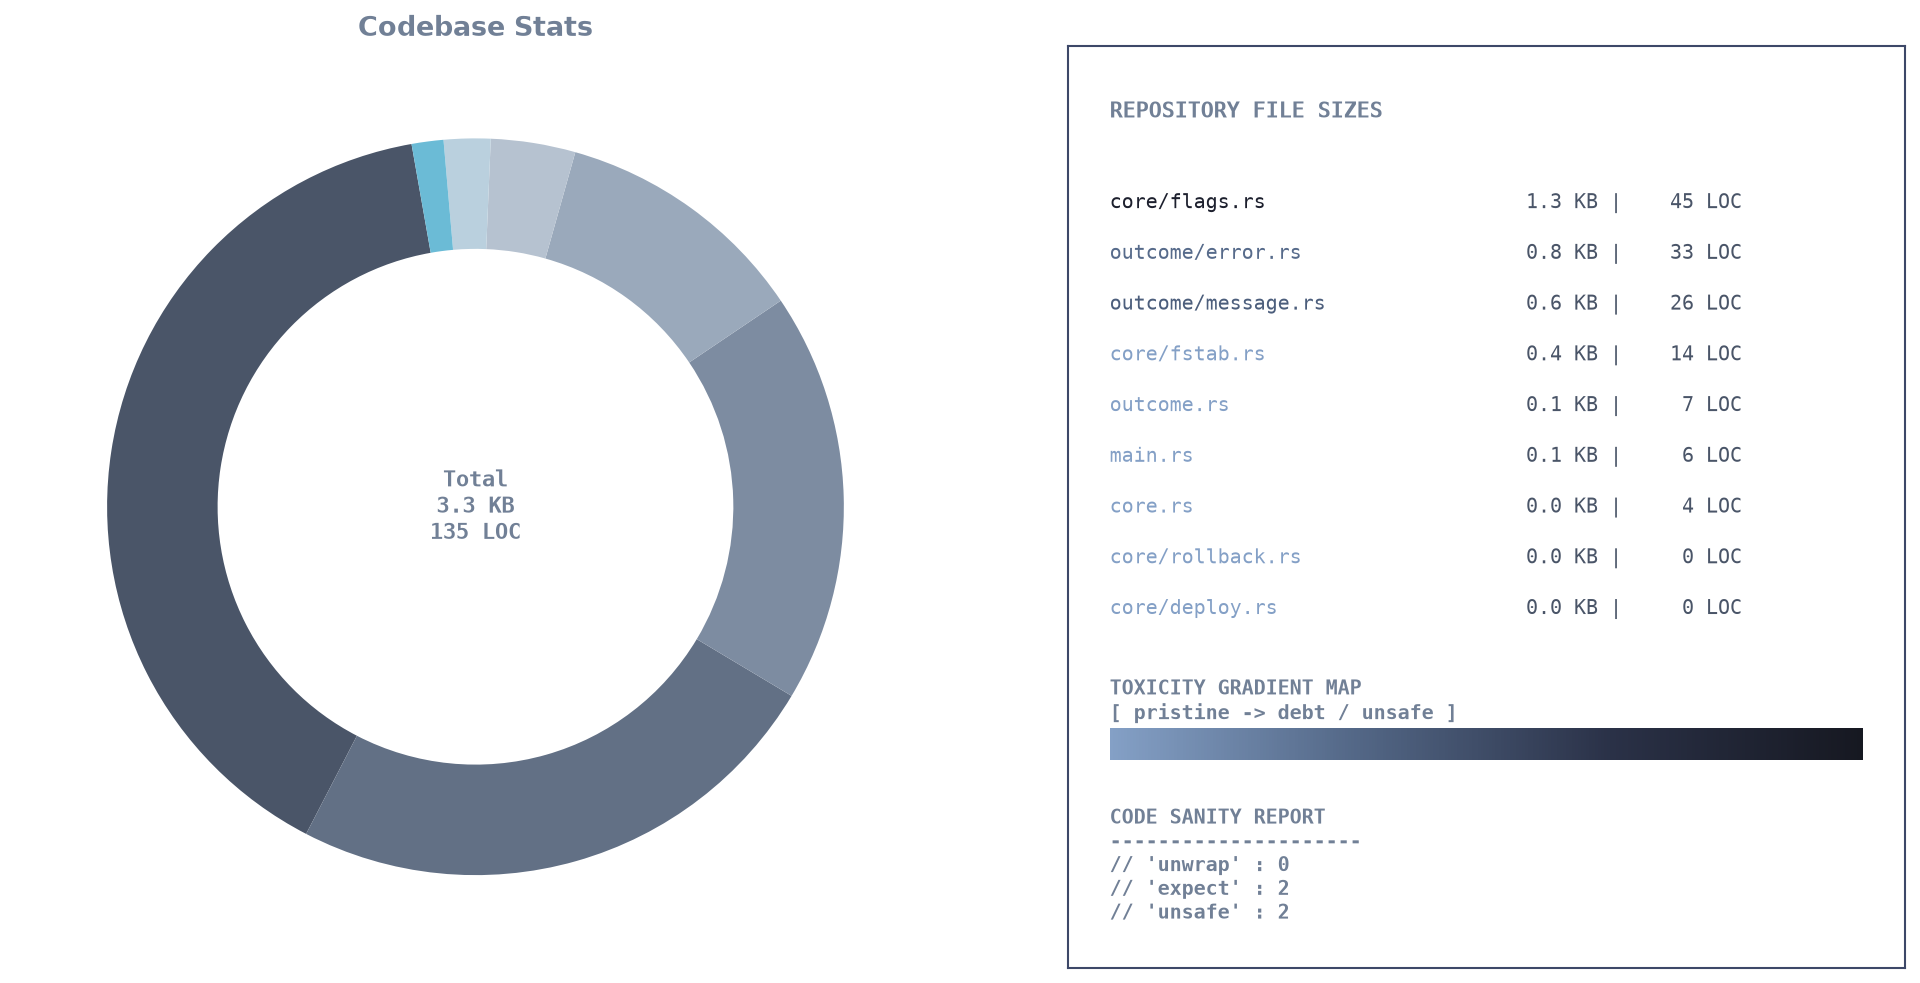
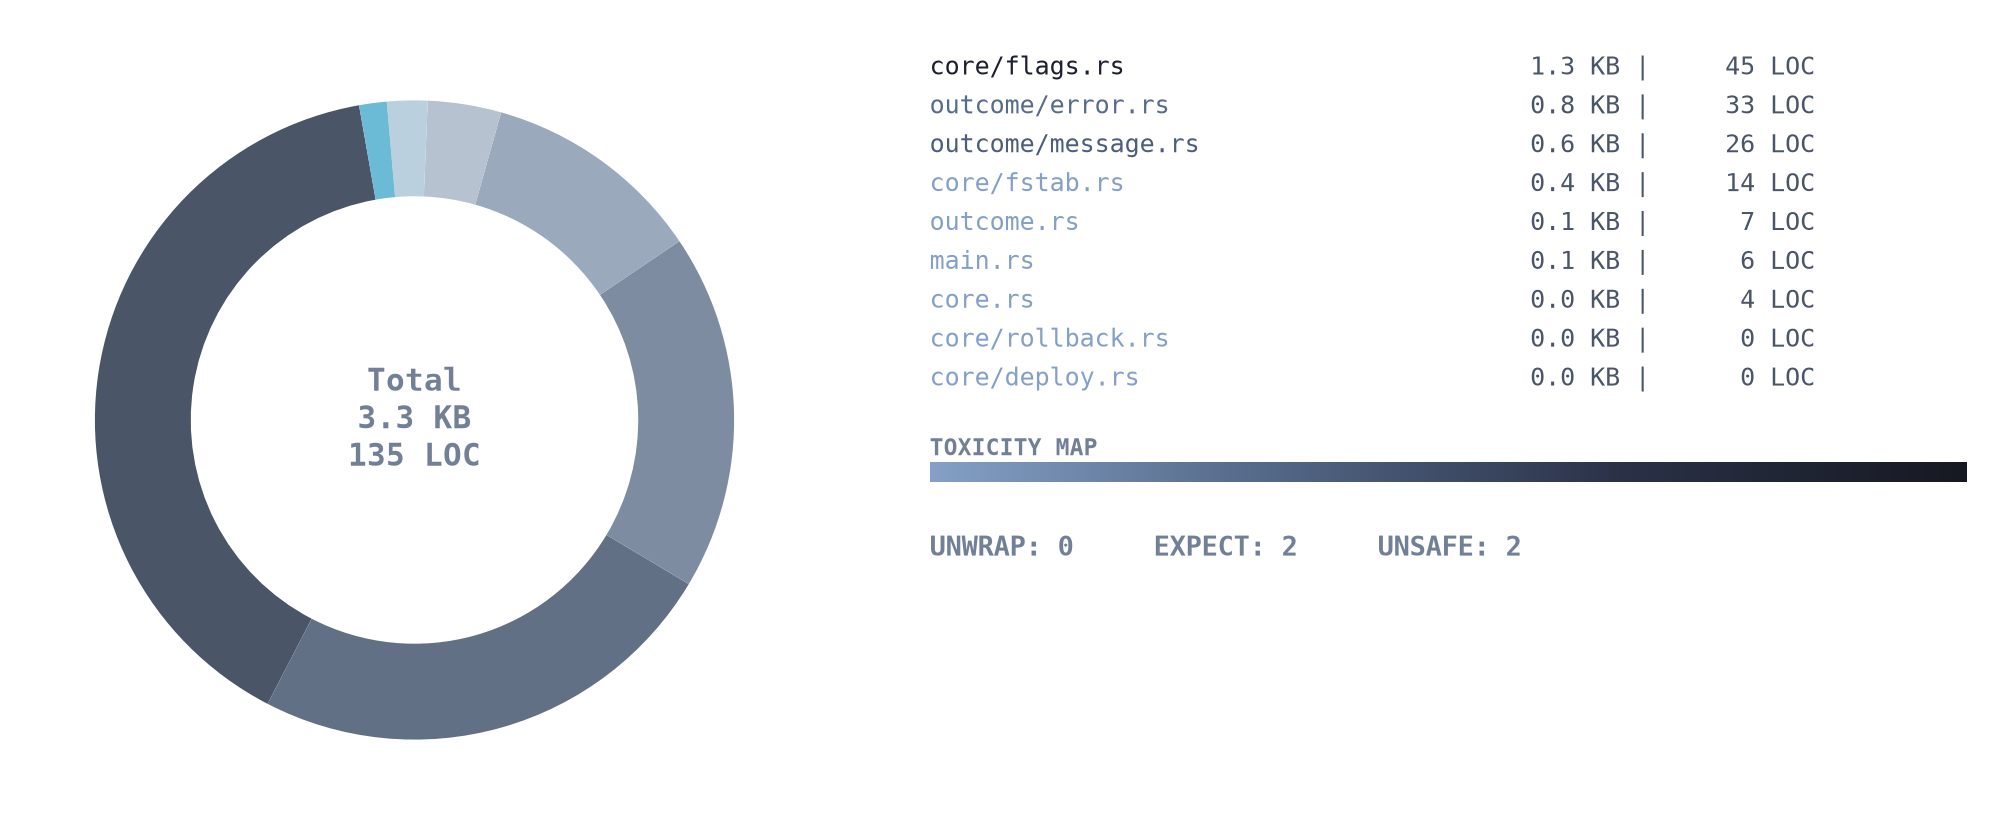
deploy-2026-07-27 16:58:41.964386

diff --git a/.ci/stats.py b/.ci/stats.py
@@ -1,14 +1,12 @@
 # /// script
 # requires-python = ">=3.11"
-# dependencies = [
-#     "matplotlib",
-#     "click",
-#     "structlog",
-# ]
+# dependencies = ["matplotlib", "click", "structlog"]
 # ///
 
 import os
 from pathlib import Path
+from dataclasses import dataclass
+from typing import Dict, List, Set, Tuple
 import matplotlib.pyplot as plt
 import matplotlib.colors as mcolors
 import matplotlib.gridspec as gridspec
@@ -17,192 +15,137 @@ import structlog
 
 log = structlog.get_logger()
 
-def load_ignore_patterns(root_dir: Path) -> list[str]:
-    ignore_file = root_dir / ".statsignore"
-    if not ignore_file.exists():
-        return []
-    with open(ignore_file, "r", encoding="utf-8") as f:
-        return [line.strip() for line in f if line.strip() and not line.startswith("#")]
+@dataclass
+class Metrics:
+    size: int
+    loc: int
+    markers: Dict[str, int]
+    toxicity: float
 
-def should_ignore(path: Path, root_dir: Path, patterns: list[str]) -> bool:
-    rel_path = str(path.relative_to(root_dir))
-    for pattern in patterns:
-        if pattern.endswith("/"):
-            if rel_path.startswith(pattern) or f"/{pattern}" in rel_path:
-                return True
-        elif pattern in rel_path or path.name == pattern:
-            return True
-    return False
+class Analyzer:
+    def __init__(self, root: Path):
+        self.root = root.resolve()
+        self.ignore = self._load_ignore()
 
-def analyze_file_content(path: Path) -> tuple[int, dict[str, int]]:
-    lines_count = 0
-    markers = {"unwrap": 0, "expect": 0, "unsafe": 0}
-    try:
-        with open(path, "r", encoding="utf-8", errors="ignore") as f:
-            for line in f:
-                lines_count += 1
-                line_strip = line.strip().lower().replace(" ", "")
-                if "//unwrap" in line_strip:
-                    markers["unwrap"] += 1
-                elif "//expect" in line_strip:
-                    markers["expect"] += 1
-                elif "//unsafe" in line_strip:
-                    markers["unsafe"] += 1
-    except Exception:
-        pass
-    return lines_count, markers
+    def _load_ignore(self) -> List[str]:
+        f = self.root / ".statsignore"
+        return [l.strip() for l in f.read_text().splitlines() if l.strip() and not l.startswith("#")] if f.exists() else []
 
-def calculate_toxicity(loc: int, markers: dict) -> float:
-    if loc == 0:
-        return 0.0
-    score = (markers["unwrap"] * 1.5) + (markers["expect"] * 1.0) + (markers["unsafe"] * 2.0)
-    return (score / loc) * 100
+    def _skip(self, p: Path) -> bool:
+        rel = str(p.relative_to(self.root))
+        return any(
+            (pat.endswith("/") and (rel.startswith(pat) or f"/{pat}" in rel)) or pat in rel or p.name == pat
+            for pat in self.ignore
+        )
 
-def scan_files(root_dir: Path, extensions: set[str], output_image: str) -> dict:
-    file_data = {}
-    root_abs = root_dir.resolve()
-    if not root_abs.exists():
-        log.error("directory_not_found", path=str(root_abs))
-        raise click.Abort()
+    @staticmethod
+    def _parse(path: Path) -> Tuple[int, Dict[str, int]]:
+        m = {"unwrap": 0, "expect": 0, "unsafe": 0}
+        loc = 0
+        try:
+            with open(path, errors="ignore") as f:
+                for line in f:
+                    loc += 1
+                    s = line.strip().lower().replace(" ", "")
+                    for marker in m:
+                        if f"//{marker}" in s:
+                            m[marker] += 1
+        except Exception:
+            pass
+        return loc, m
 
-    patterns = load_ignore_patterns(root_abs)
-    for path in root_abs.rglob("*"):
-        if path.is_file() and path.suffix.lower() in extensions:
-            if path.name == output_image or should_ignore(path, root_abs, patterns):
-                continue
-            relative_path = path.relative_to(root_abs)
-            loc, markers = analyze_file_content(path)
-            toxicity = calculate_toxicity(loc, markers)
-            file_data[str(relative_path)] = {
-                "size": path.stat().st_size,
-                "loc": loc,
-                "markers": markers,
-                "toxicity": toxicity
-            }
-    return file_data
+    def scan(self, exts: Set[str], out: str) -> Dict[str, Metrics]:
+        data = {}
+        for p in self.root.rglob("*"):
+            if p.is_file() and p.suffix.lower() in exts and p.name != out and not self._skip(p):
+                loc, m = self._parse(p)
+                tox = ((m["unwrap"] * 1.5 + m["expect"] * 1.0 + m["unsafe"] * 2.0) / loc * 100) if loc else 0
+                data[str(p.relative_to(self.root))] = Metrics(p.stat().st_size, loc, m, tox)
+        return data
 
-def save_github_chart(file_data: dict, output_path: str, max_pieces: int = 10):
-    if not file_data:
-        log.warning("no_files_found")
-        return
+class Chart:
+    def __init__(self):
+        self.cmap = mcolors.LinearSegmentedColormap.from_list("c", ['#84a0c6', '#526685', '#2a3147', '#161821'])
+        self.pie = mcolors.LinearSegmentedColormap.from_list("p", ['#4a5568', '#718096', '#a0aec0', '#cbd5e0', '#4eb3d3', '#3182ce'])
+        self.col = '#718096'
 
-    sorted_data = sorted(file_data.items(), key=lambda x: x[1]["size"], reverse=True)
-    final_labels, final_sizes, final_locs, final_toxicities = [], [], [], []
-    total_unwrap = total_expect = total_unsafe = total_loc = 0
-    others_size = others_loc = others_count = others_toxicity_sum = 0
+    def save(self, data: Dict[str, Metrics], path: str, maxn: int = 12):
+        if not data:
+            return
 
-    for i, (lbl, metrics) in enumerate(sorted_data):
-        total_unwrap += metrics["markers"]["unwrap"]
-        total_expect += metrics["markers"]["expect"]
-        total_unsafe += metrics["markers"]["unsafe"]
-        total_loc += metrics["loc"]
-        
-        if i < max_pieces:
-            final_labels.append(lbl)
-            final_sizes.append(metrics["size"])
-            final_locs.append(metrics["loc"])
-            final_toxicities.append(metrics["toxicity"])
-        else:
-            others_size += metrics["size"]
-            others_loc += metrics["loc"]
-            others_toxicity_sum += metrics["toxicity"]
-            others_count += 1
+        items = sorted(data.items(), key=lambda x: x[1].size, reverse=True)
+        labels, sizes, locs, toxs = [], [], [], []
+        totals = {"size": 0, "loc": 0, "unwrap": 0, "expect": 0, "unsafe": 0, "tox": 0, "cnt": 0}
 
-    if others_size > 0:
-        final_labels.append(f"others ({others_count} files)")
-        final_sizes.append(others_size)
-        final_locs.append(others_loc)
-        final_toxicities.append(others_toxicity_sum / others_count)
+        for i, (lbl, m) in enumerate(items):
+            totals["size"] += m.size
+            totals["loc"] += m.loc
+            totals["tox"] += m.toxicity
+            for k in ["unwrap", "expect", "unsafe"]:
+                totals[k] += m.markers[k]
 
-    total_kb = sum(final_sizes) / 1024
-    
-    text_color = '#718096'
-    metrics_color = '#4a5568' 
-    border_color = '#3d4868' 
+            if i < maxn:
+                labels.append(lbl)
+                sizes.append(m.size)
+                locs.append(m.loc)
+                toxs.append(m.toxicity)
+            else:
+                totals["cnt"] += 1
 
-    text_cmap = mcolors.LinearSegmentedColormap.from_list("text_toxicity", ['#84a0c6', '#526685', '#2a3147', '#161821'])
+        if totals["cnt"]:
+            labels.append(f"others ({totals['cnt']} files)")
+            sizes.append(sum(m.size for _, m in items[maxn:]))
+            locs.append(sum(m.loc for _, m in items[maxn:]))
+            toxs.append(sum(m.toxicity for _, m in items[maxn:]) / totals["cnt"])
 
-    fig = plt.figure(figsize=(14, 7.5), facecolor='none')
-    gs = gridspec.GridSpec(1, 2, width_ratios=[1.1, 1.0], wspace=0.15)
+        fig = plt.figure(figsize=(14, 6), facecolor='none')
+        gs = gridspec.GridSpec(1, 2, width_ratios=[0.85, 1.15], wspace=0.1)
 
-    ax_pie = fig.add_subplot(gs[0, 0], aspect="equal")
-    ax_pie.set_facecolor('none')
-    
-    pie_cmap = mcolors.LinearSegmentedColormap.from_list("adaptive_slate", ['#4a5568', '#718096', '#a0aec0', '#cbd5e0', '#4eb3d3', '#3182ce'])
-    pie_colors = [pie_cmap(i / (len(final_sizes) - 1 if len(final_sizes) > 1 else 1)) for i in range(len(final_sizes))]
+        # Левая часть: Пончик-чарт
+        ax = fig.add_subplot(gs[0], aspect="equal", facecolor='none')
+        colors = [self.pie(i / (len(sizes) - 1 or 1)) for i in range(len(sizes))]
+        ax.pie(sizes, wedgeprops=dict(width=0.3, edgecolor='none'), startangle=100, colors=colors)
+        ax.text(0, 0, f"Total\n{totals['size']/1024:.1f} KB\n{totals['loc']} LOC",
+                ha='center', va='center', fontsize=15, color=self.col, fontfamily='monospace', weight='bold')
 
-    wedges, _ = ax_pie.pie(final_sizes, wedgeprops=dict(width=0.3, edgecolor='none'), startangle=100, colors=pie_colors)
-    ax_pie.text(0, 0, f"Total\n{total_kb:.1f} KB\n{total_loc} LOC", ha='center', va='center', fontsize=10.5, color=text_color, fontfamily='monospace', weight='bold')
+        # Правая часть: Спецификация и метрики
+        ax2 = fig.add_subplot(gs[1], facecolor='none')
+        for s in ax2.spines.values():
+            s.set_visible(False)
+        ax2.set_xticks([])
+        ax2.set_yticks([])
 
-    ax_text = fig.add_subplot(gs[0, 1])
-    ax_text.set_facecolor('none')
-    
-    for spine in ax_text.spines.values():
-        spine.set_edgecolor(border_color)
-        spine.set_linewidth(1)
-    
-    ax_text.set_xticks([])
-    ax_text.set_yticks([])
+        y = 0.95
+        for lbl, sz, lc, tox in zip(labels, sizes, locs, toxs):
+            c = self.cmap(min(tox / 10, 1))
+            ax2.text(0.02, y, f"{lbl:<30}", fontfamily='monospace', fontsize=12, color=c, va='top')
+            ax2.text(0.52, y, f"{sz/1024:>7.1f} KB | {lc:>6} LOC", fontfamily='monospace', fontsize=12, color='#4a5568', va='top')
+            y -= 0.048
 
-    pad_left = 0.05
-    pad_right = 0.95
+        y -= 0.04
+        ax2.text(0.02, y, "TOXICITY MAP", fontsize=11, fontfamily='monospace', color=self.col, weight='bold', va='top')
+        cax = ax2.inset_axes([0.02, y - 0.055, 0.96, 0.025])
+        cb = fig.colorbar(plt.cm.ScalarMappable(norm=mcolors.Normalize(0, 10), cmap=self.cmap), cax=cax, orientation='horizontal')
+        cb.outline.set_visible(False)
+        cb.set_ticks([])
 
-    ax_text.text(pad_left, 0.94, "REPOSITORY FILE SIZES", fontsize=10.5, fontfamily='monospace', fontweight='bold', color=text_color, va='top')
-    
-    y_offset = 0.84
-    for lbl, sz, lc, tox in zip(final_labels, final_sizes, final_locs, final_toxicities):
-        norm_tox = min(tox / 10.0, 1.0)
-        current_name_color = text_cmap(norm_tox)
-        
-        name_part = f"{lbl:<28}"
-        ax_text.text(pad_left, y_offset, name_part, fontfamily='monospace', fontsize=9.5, color=current_name_color, va='top')
-        
-        metrics_part = f" {sz / 1024:>6.1f} KB | {lc:>5} LOC"
-        ax_text.text(0.49, y_offset, metrics_part, fontfamily='monospace', fontsize=9.5, color=metrics_color, va='top')
-        
-        y_offset -= 0.055
+        y -= 0.12
+        ax2.text(0.02, y, f"UNWRAP: {totals['unwrap']:<4}  EXPECT: {totals['expect']:<4}  UNSAFE: {totals['unsafe']:<4}",
+                fontsize=13, fontfamily='monospace', color=self.col, weight='bold', va='top')
 
-    y_offset -= 0.03
-    ax_text.text(pad_left, y_offset, "TOXICITY GRADIENT MAP\n[ pristine -> debt / unsafe ]", fontsize=9.5, fontfamily='monospace', color=text_color, weight='bold', va='top')
-    
-    cax = ax_text.inset_axes([pad_left, y_offset - 0.09, pad_right - pad_left, 0.035])
-    norm = mcolors.Normalize(vmin=0, vmax=10)
-    cb = fig.colorbar(plt.cm.ScalarMappable(norm=norm, cmap=text_cmap), cax=cax, orientation='horizontal', drawedges=False)
-    cb.outline.set_visible(False)
-    cb.set_ticks([])
-
-    y_offset -= 0.14
-    sanity_text = (
-        f"CODE SANITY REPORT\n"
-        f"---------------------\n"
-        f"// 'unwrap' : {total_unwrap:<4}\n"
-        f"// 'expect' : {total_expect:<4}\n"
-        f"// 'unsafe' : {total_unsafe:<4}"
-    )
-    ax_text.text(pad_left, y_offset, sanity_text, fontsize=9.5, fontfamily='monospace', color=text_color, weight='bold', va='top')
-
-    ax_pie.set_title("Codebase Stats", fontsize=13, pad=5, color=text_color, fontweight='bold', fontfamily='sans-serif')
-    
-    plt.subplots_adjust(left=0.05, right=0.95, top=0.90, bottom=0.08)
-    
-    plt.savefig(output_path, dpi=150, bbox_inches='tight', transparent=True)
-    plt.close()
-    log.info("chart_generated", output=output_path)
+        plt.subplots_adjust(left=0.03, right=0.97, top=0.95, bottom=0.05)
+        plt.savefig(path, dpi=150, bbox_inches='tight', transparent=True)
+        plt.close()
 
 @click.command()
-@click.option('--path', '-p', default='.', type=click.Path(exists=True))
-@click.option('--target', '-t', default='.py,.rs')
-@click.option('--output', '-o', default='disk_analysis.png')
+@click.option('-p', '--path', default='.')
+@click.option('-t', '--target', default='.py,.rs')
+@click.option('-o', '--output', default='disk_analysis.png')
 def main(path, target, output):
     structlog.configure(processors=[structlog.processors.TimeStamper(fmt="iso"), structlog.processors.KeyValueRenderer()])
-    target_dir = Path(path)
-    extensions = {ext.strip().lower() if ext.strip().startswith('.') else f".{ext.strip().lower()}" for ext in target.split(',')}
-
-    absolute_output = Path(os.getcwd()) / output
-
-    log.info("scan_started", directory=str(target_dir.resolve()), targets=list(extensions))
-    data = scan_files(target_dir, extensions, output)
-    save_github_chart(data, str(absolute_output))
+    exts = {e.strip().lower() if e.startswith('.') else f".{e.strip().lower()}" for e in target.split(',')}
+    data = Analyzer(Path(path)).scan(exts, output)
+    Chart().save(data, str(Path(os.getcwd()) / output))
 
 if __name__ == "__main__":
     main()
